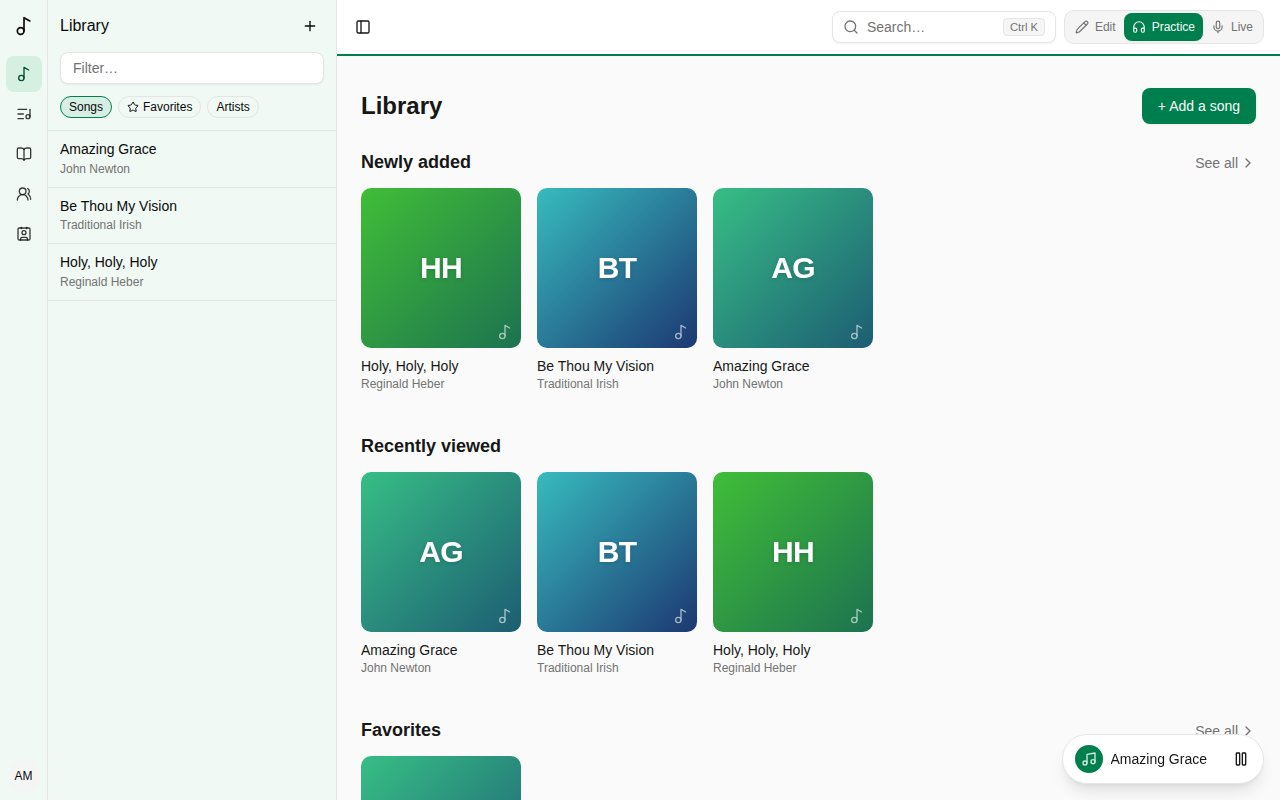
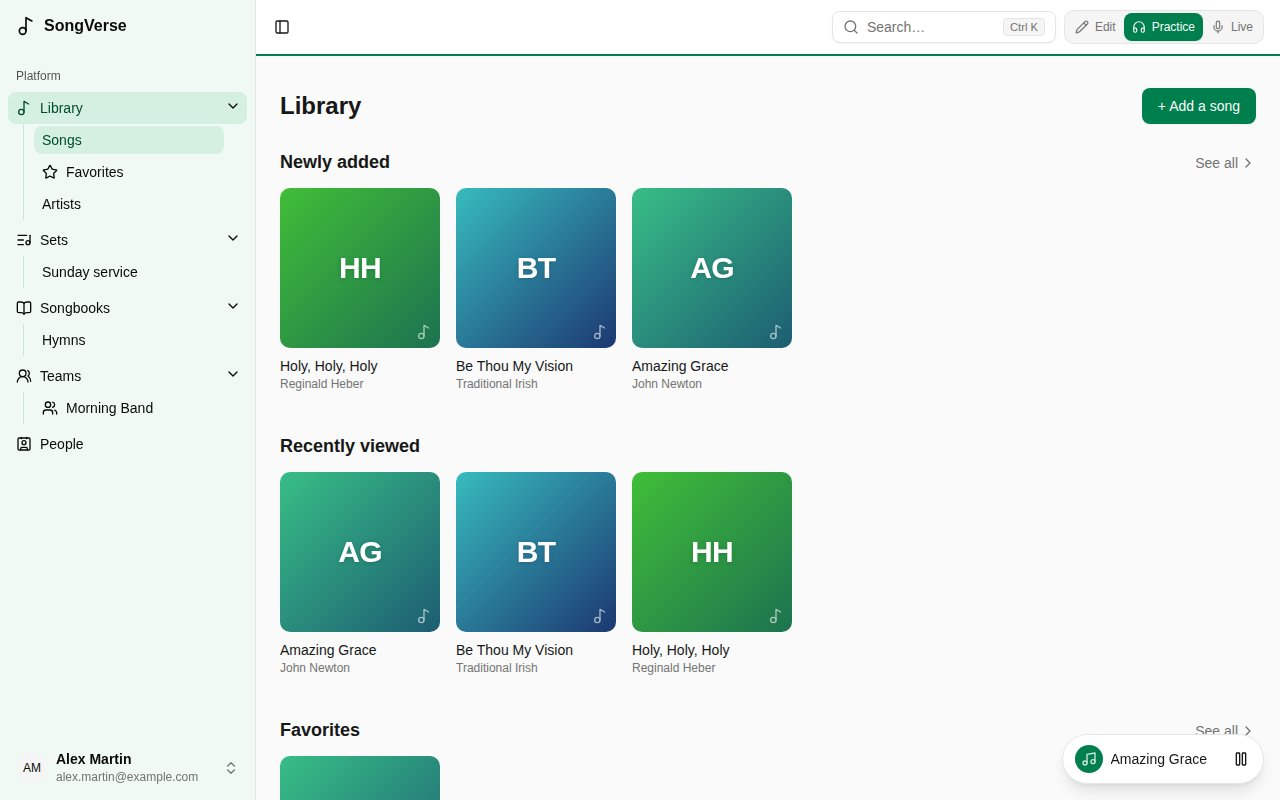
Sidebar: full on a section's page, nested once inside one
The two sidebars together: on a section's own page (Library's home,
Sets, Songbooks, Teams, People, the dashboard, admin…) the full sidebar
is back, each section with its lists underneath; once inside one - a
song and its versions, Artists, a smart list, your favorites or an
artist's songs, a set, a songbook, a team - it's the rail and the panel
(nestedSidebarFor). A rail icon goes to its section's page, so to the
full sidebar again. Collapsing works on both: the full sidebar to its
icons, the panel out of the way; one remembered state. The full
sidebar's Library also lists Favorites.

Docs (en/fr): Getting started; screenshots retaken. e2e: web/sidebar
walks from the full sidebar into a song, Artists, a set and a songbook
and back; the harness's sidebarGo/sidebarEntry work with either.

Refs #80

Claude-Session: https://claude.ai/code/session_01XvbKp5w1xAahmXxF5Cbbw1

diff --git a/apps/web/src/components/app-shell.tsx b/apps/web/src/components/app-shell.tsx
@@ -1,5 +1,5 @@
 import type { SetlistSummary, SongbookSummary, TeamSummary } from "@songverse/core";
-import { useMatches } from "@tanstack/react-router";
+import { useMatches, useRouterState } from "@tanstack/react-router";
 import { useEffect, useState, type ReactNode } from "react";
 import { AppSidebar } from "#/components/app-sidebar";
 import { OfflineBanner } from "#/components/offline-banner";
@@ -8,6 +8,7 @@ import { StemDockSlot, StemReturnButton } from "#/components/stem-dock";
 import { YouTubeHost } from "#/components/youtube-dock";
 import { unloadStems } from "#/lib/stem-engine";
 import type { AppSession } from "#/lib/server-auth";
+import { nestedSidebarFor } from "#/lib/sidebar-kind";
 import { NestedSidebar } from "#/components/nested-sidebar";
 import { SidebarInset, SidebarProvider, useSidebar } from "#/components/ui/sidebar";
 
@@ -57,8 +58,12 @@ export function AppShell({
   );
 }
 
-/** A phone's sidebar is the one list in a sheet; a wider screen's, the rail and its panel (issue #80). */
+/**
+ * The full sidebar on a phone (in a sheet) and on a section's own page;
+ * inside a section, on a wider screen, the rail and its panel (issue #80).
+ */
 function ShellSidebar(props: { session: AppSession; teams: TeamSummary[]; songbooks: SongbookSummary[]; setlists: SetlistSummary[] }) {
   const { isMobile } = useSidebar();
-  return isMobile ? <AppSidebar {...props} /> : <NestedSidebar {...props} />;
+  const nested = useRouterState({ select: (s) => nestedSidebarFor(s.location.pathname, s.location.search as Record<string, unknown>) });
+  return isMobile || !nested ? <AppSidebar {...props} /> : <NestedSidebar {...props} />;
 }

diff --git a/apps/web/src/components/app-sidebar.tsx b/apps/web/src/components/app-sidebar.tsx
@@ -22,6 +22,7 @@ import {
   Users,
   UsersRound,
   Contact,
+  Star,
 } from "lucide-react";
 import type { ReactNode } from "react";
 import { useTranslation } from "react-i18next";
@@ -219,8 +220,9 @@ interface NavItem {
 
 /**
  * A sidebar entry with its own list under it (Library, Sets, Songbooks,
- * Teams), as a collapsible list: the phone's sidebar. On a wider screen the
- * lists are in the nested sidebar's panel instead (#80).
+ * Teams), as a collapsible list: the full sidebar, on a phone and on a
+ * section's own page; inside a section, the nested sidebar's panel lists
+ * them instead (#80).
  */
 function NavGroup({
   icon,
@@ -311,6 +313,13 @@ function MainNav({
             items={[
               // Songs (what Library opens on), artists, and the user's smart lists (issue #58).
               { key: "songs", label: t("nav.songs"), isActive: pathname === "/library" && !listId, link: { to: "/library" } },
+              {
+                key: "favorites",
+                label: t("library.home.favorites"),
+                icon: <Star className="size-3.5" />,
+                isActive: false,
+                link: { to: "/library" as const, search: { favorites: true } },
+              },
               { key: "artists", label: t("nav.artists"), isActive: pathname === "/library/artists", link: { to: "/library/artists" as const } },
               ...smartLists.map((list) => ({
                 key: list.id,

diff --git a/apps/web/src/lib/sidebar-kind.ts b/apps/web/src/lib/sidebar-kind.ts
@@ -1,0 +1,12 @@
+/**
+ * Which sidebar a page gets on a wider screen (issue #80): the full one,
+ * with every section and its lists, on a section's own page (Library's
+ * home, Sets, Songbooks…); the rail and its panel once you're inside one -
+ * a song, Artists, a smart list or your favorites, a set, a songbook, a
+ * team - to go from one to the next.
+ */
+export function nestedSidebarFor(pathname: string, search: Record<string, unknown>): boolean {
+  if (/^\/library\/(?!new\/?$)[^/]+/.test(pathname)) return true;
+  if (pathname === "/library" && (search.list || search.favorites || search.artist)) return true;
+  return /^\/(sets|songbooks|teams)\/(?!new\/?$)[^/]+/.test(pathname);
+}

diff --git a/apps/docs/src/content/docs/fr/getting-started.md b/apps/docs/src/content/docs/fr/getting-started.md
@@ -27,11 +27,11 @@ La barre latérale à gauche mène partout :
 - **Équipes** - les groupes dont vous faites partie. Voir [Équipes](/fr/teams/).
 - **Personnes** - les personnes avec qui vous partagez des chants. Voir [Personnes](/fr/people/).
 
-Sur un ordinateur ou une tablette, la barre latérale a deux parties : une colonne d'icônes pour ces sections et, à côté, un panneau qui liste le contenu de la section où vous êtes - vos chants, vos listes, vos recueils, vos équipes ou vos personnes - avec une case **Filtrer…** en haut. Ce que vous consultez y est marqué : le chant, la liste ou le recueil suivant est à un clic. Le panneau de la bibliothèque propose aussi vos [listes intelligentes](/fr/library/) et **Artistes**, et **+** commence un nouveau chant, une nouvelle liste, un nouveau recueil ou une nouvelle équipe. Dans une liste de chants, le panneau montre ses chants, dans l'ordre, avec la version et la tonalité de chacun : passez de l'un à l'autre, ou à la liste elle-même depuis son nom ; **Listes de chants**, en haut, montre à nouveau vos listes. Un recueil fonctionne de la même façon : ses chants par numéro (tapez un numéro dans **Filtrer…** pour le trouver), et un chant ouvert depuis le recueil garde la liste du recueil à côté.
+Sur la page d'une section (l'accueil de la bibliothèque, Listes de chants, Recueils…), la barre latérale montre toutes les sections avec leurs listes en dessous : vos prochaines listes, vos recueils, vos équipes. Une fois dans l'une d'elles - un chant, **Artistes**, une liste intelligente ou vos favoris, une liste de chants, un recueil, une équipe - sur un ordinateur ou une tablette elle a deux parties : une colonne d'icônes pour les sections et, à côté, un panneau qui liste le contenu de la section où vous êtes - vos chants, vos listes, vos recueils, vos équipes ou vos personnes - avec une case **Filtrer…** en haut. Ce que vous consultez y est marqué : le chant, la liste ou le recueil suivant est à un clic. Le panneau de la bibliothèque propose aussi vos [listes intelligentes](/fr/library/) et **Artistes**, et **+** commence un nouveau chant, une nouvelle liste, un nouveau recueil ou une nouvelle équipe. Dans une liste de chants, le panneau montre ses chants, dans l'ordre, avec la version et la tonalité de chacun : passez de l'un à l'autre, ou à la liste elle-même depuis son nom ; **Listes de chants**, en haut, montre à nouveau vos listes. Un recueil fonctionne de la même façon : ses chants par numéro (tapez un numéro dans **Filtrer…** pour le trouver), et un chant ouvert depuis le recueil garde la liste du recueil à côté.
 
 ![La page d'une liste de chants : la colonne d'icônes à gauche, et le panneau qui liste vos listes](../../../assets/screenshots/fr/set.jpg)
 
-Le bouton en haut à gauche, le bord de la barre latérale ou **Ctrl B** (**⌘ B** sur Mac) ferment le panneau et ne laissent que la colonne d'icônes ; un clic sur une icône le rouvre. SongVerse retient s'il est ouvert. Sur téléphone, la barre latérale s'ouvre par-dessus la page depuis le bouton en haut à gauche, avec toutes les sections et leurs listes.
+Le bouton en haut à gauche, le bord de la barre latérale ou **Ctrl B** (**⌘ B** sur Mac) la réduisent : la barre complète à ses icônes, le panneau mis de côté pour ne laisser que la colonne d'icônes. Un clic sur une icône de la colonne la rouvre, et SongVerse retient si elle est ouverte. Sur téléphone, la barre latérale s'ouvre par-dessus la page depuis le bouton en haut à gauche, avec toutes les sections et leurs listes.
 
 Votre nom, en bas de la barre latérale, ouvre un menu avec le **Tableau de bord** (vos chants et vos équipes), les **Paramètres du compte** et **Se déconnecter**.
 

diff --git a/apps/docs/src/content/docs/getting-started.md b/apps/docs/src/content/docs/getting-started.md
@@ -27,11 +27,11 @@ The sidebar on the left takes you everywhere:
 - **Teams** - the bands and groups you're part of. See [Teams](/teams/).
 - **People** - the people you share songs with. See [People](/people/).
 
-On a computer or a tablet, the sidebar has two parts: a rail of icons for these sections, and beside it a panel listing what's in the section you're in - your songs, your sets, your songbooks, your teams or your people - with a **Filter…** box on top. What you're viewing is marked, so the next song, set or songbook is one click away. The library's panel also has your [smart lists](/library/) and **Artists**, and **+** starts a new song, set, songbook or team. In a set, the panel lists that set's songs, in order, with the version and key each is played in: go from one to the next, or to the set itself from its name; **Sets**, at the top, lists your sets again. A songbook works the same way: its songs by number (type a number in **Filter…** to find it), and a song opened from the songbook keeps the songbook's list beside it.
+On a section's own page (the library's home, Sets, Songbooks…), the sidebar shows every section with its lists underneath: your upcoming sets, your songbooks, your teams. Once you're inside one - a song, **Artists**, a smart list or your favorites, a set, a songbook, a team - on a computer or a tablet it becomes two parts: a rail of icons for the sections, and beside it a panel listing what's in the section you're in - your songs, your sets, your songbooks, your teams or your people - with a **Filter…** box on top. What you're viewing is marked, so the next song, set or songbook is one click away. The library's panel also has your [smart lists](/library/) and **Artists**, and **+** starts a new song, set, songbook or team. In a set, the panel lists that set's songs, in order, with the version and key each is played in: go from one to the next, or to the set itself from its name; **Sets**, at the top, lists your sets again. A songbook works the same way: its songs by number (type a number in **Filter…** to find it), and a song opened from the songbook keeps the songbook's list beside it.
 
 ![A set's page: the rail on the left, and the panel listing your sets](../../assets/screenshots/en/set.jpg)
 
-The button at the top left, the sidebar's edge, or **Ctrl B** (**⌘ B** on a Mac) close the panel, leaving just the rail; clicking an icon on the rail opens it again. SongVerse remembers whether it's open. On a phone, the sidebar opens over the page from the top-left button instead, with every section and its lists.
+The button at the top left, the sidebar's edge, or **Ctrl B** (**⌘ B** on a Mac) collapse it: the full sidebar to its icons, the panel out of the way, leaving just the rail. Clicking an icon on the rail opens it again, and SongVerse remembers whether it's open. On a phone, the sidebar opens over the page from the top-left button instead, with every section and its lists.
 
 Your name at the bottom of the sidebar opens a menu with the **Dashboard** (your songs and teams), **Account settings** and **Sign out**.
 
